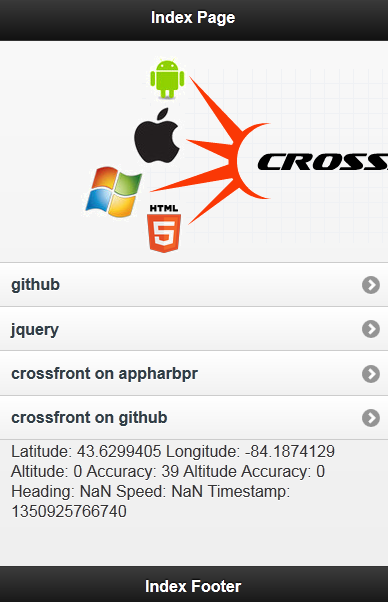
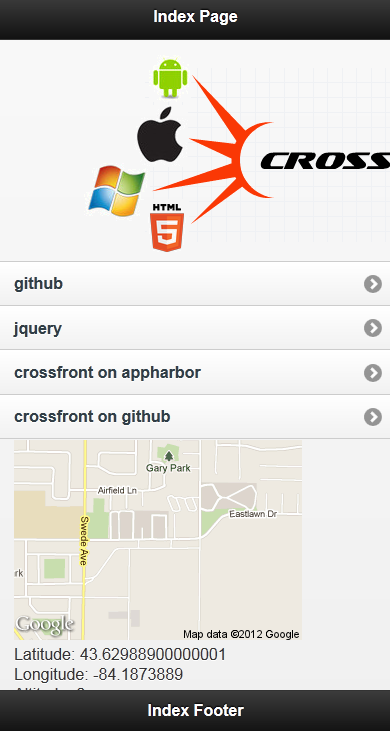
fixed phonegap relative url and index render

Changed region(s): [[0.0, 0.3588, 1.0, 0.9867], [0.0, 0.0, 1.0, 0.4186], [0.9278, 0.3588, 0.9897, 0.7176]]

diff --git a/CrossFront/api/Menu.html b/CrossFront/api/Menu.html
@@ -1,6 +1,9 @@
 [
-	{"text" : "github" , "url" : "http://github.com"},
-	{"text" : "jquery" , "url" : "http://jquery.com"},
-    {"text" : "crossfront on appharbpr" , "url" : "http://crossfront.apphb.com"},
-    {"text" : "crossfront on github" , "url" : "https://github.com/ntheile/CrossFront"}
+{"text" : "github" , "url" : "http://github.com"},
+{"text" : "jquery" , "url" : "http://jquery.com"},
+{"text" : "crossfront on appharbor" , "url" : "http://crossfront.apphb.com"},
+{"text" : "crossfront on github" , "url" : "https://github.com/ntheile/CrossFront"}
 ]
+	
+	
+

diff --git a/CrossFront/js/main.js b/CrossFront/js/main.js
@@ -8,7 +8,7 @@
 //1. media queries for desktop and mobile views
 
 require.config({
-    urlArgs: "bust=v33",
+    urlArgs: "bust=v34",
     paths: {
         backbone: 'libs/backbone-0.5.3',
         text: 'libs/text',
@@ -49,6 +49,7 @@ require(['jquery', 'underscore', 'backbone', 'modernizr'],
         global._ = global._ || _;
         global.Backbone = global.Backbone || Backbone;
         console.log('core libs loaded');
+        $.support.cors = true;
 
 
         //wait for Mobile jquery mobile init'd and loaded Callback

diff --git a/CrossFront/index.html b/CrossFront/index.html
@@ -36,8 +36,6 @@
                 <p>
                     <div class="main-content">
                         <div class="gps-data"></div>
-                        <!--<img src="https://maps.googleapis.com/maps/api/staticmap?center=43.6177408, -84.2012254&amp;zoom=14&amp;size=288x200&amp;markers=color:blue%7Clabel:M%7C43.6177408 -84.2012&amp;sensor=false"
-                            height="200" width="288">-->
                     </div>
                     
                 </p>

diff --git a/CrossFront/js/collections/Menu.ts b/CrossFront/js/collections/Menu.ts
@@ -15,14 +15,20 @@ export class Menu extends Backbone.Collection {
     
     url: string;
         
+
+
     initialize() {
         console.log("Menu init'd");
+
     }
+
+    
 
     // You can pass anything in when this is new'd up 
     constructor(options?: any) {
         // This code runs when you create a new instance of Menu
-        this.url = "/api/Menu.html";    
+        this.url = "api/Menu.html";    
+        
         super(options);  
     };
 };

diff --git a/CrossFront/js/app.js b/CrossFront/js/app.js
@@ -24,7 +24,7 @@ define(["require", "exports", "models/MenuItem", "collections/Menu", "views/part
     menu.fetch({
         success: function () {
             console.log(menu.models);
-            var menuview = new PartialView.MenuView($('.sidemenu'), menu).render();
+            var menuview = new PartialView.MenuView($('.sidemenu'), menu).render().trigger('create');
         }
     });
     var onSuccess = function (position) {

diff --git a/CrossFront/js/app.ts b/CrossFront/js/app.ts
@@ -63,7 +63,7 @@ menu.fetch({success: function(){
     console.log(menu.models); // => 2 (collection have been populated)
 
     // Fetches, Sets up and injects a side menu partial view into the DOM for the sidemenu class
-   var menuview = new PartialView.MenuView(  $('.sidemenu'), menu  ).render();
+   var menuview = new PartialView.MenuView(  $('.sidemenu'), menu  ).render().trigger('create');
 }})
 
 

diff --git a/CrossFront/js/collections/Menu.js b/CrossFront/js/collections/Menu.js
@@ -8,7 +8,7 @@ define(["require", "exports"], function(require, exports) {
     var Menu = (function (_super) {
         __extends(Menu, _super);
         function Menu(options) {
-            this.url = "/api/Menu.html";
+            this.url = "api/Menu.html";
                 _super.call(this, options);
         }
         Menu.prototype.initialize = function () {

diff --git a/CrossFront/js/router.js b/CrossFront/js/router.js
@@ -123,6 +123,9 @@
                 $.mobile.changePage(hash);
             }
 
+            //TODO - use an index view here and get rid of test view code in app.ts 
+            $('sidemenu').listview( "refresh" ).trigger('create');
+
         };
 
         var init = function () {

diff --git a/CrossFront/js/views/pages/index.ts b/CrossFront/js/views/pages/index.ts
@@ -21,6 +21,7 @@ export class IndexView extends Backbone.View {
          
     render() {
         console.log("rendered the index view");
+
     }
 
 };
